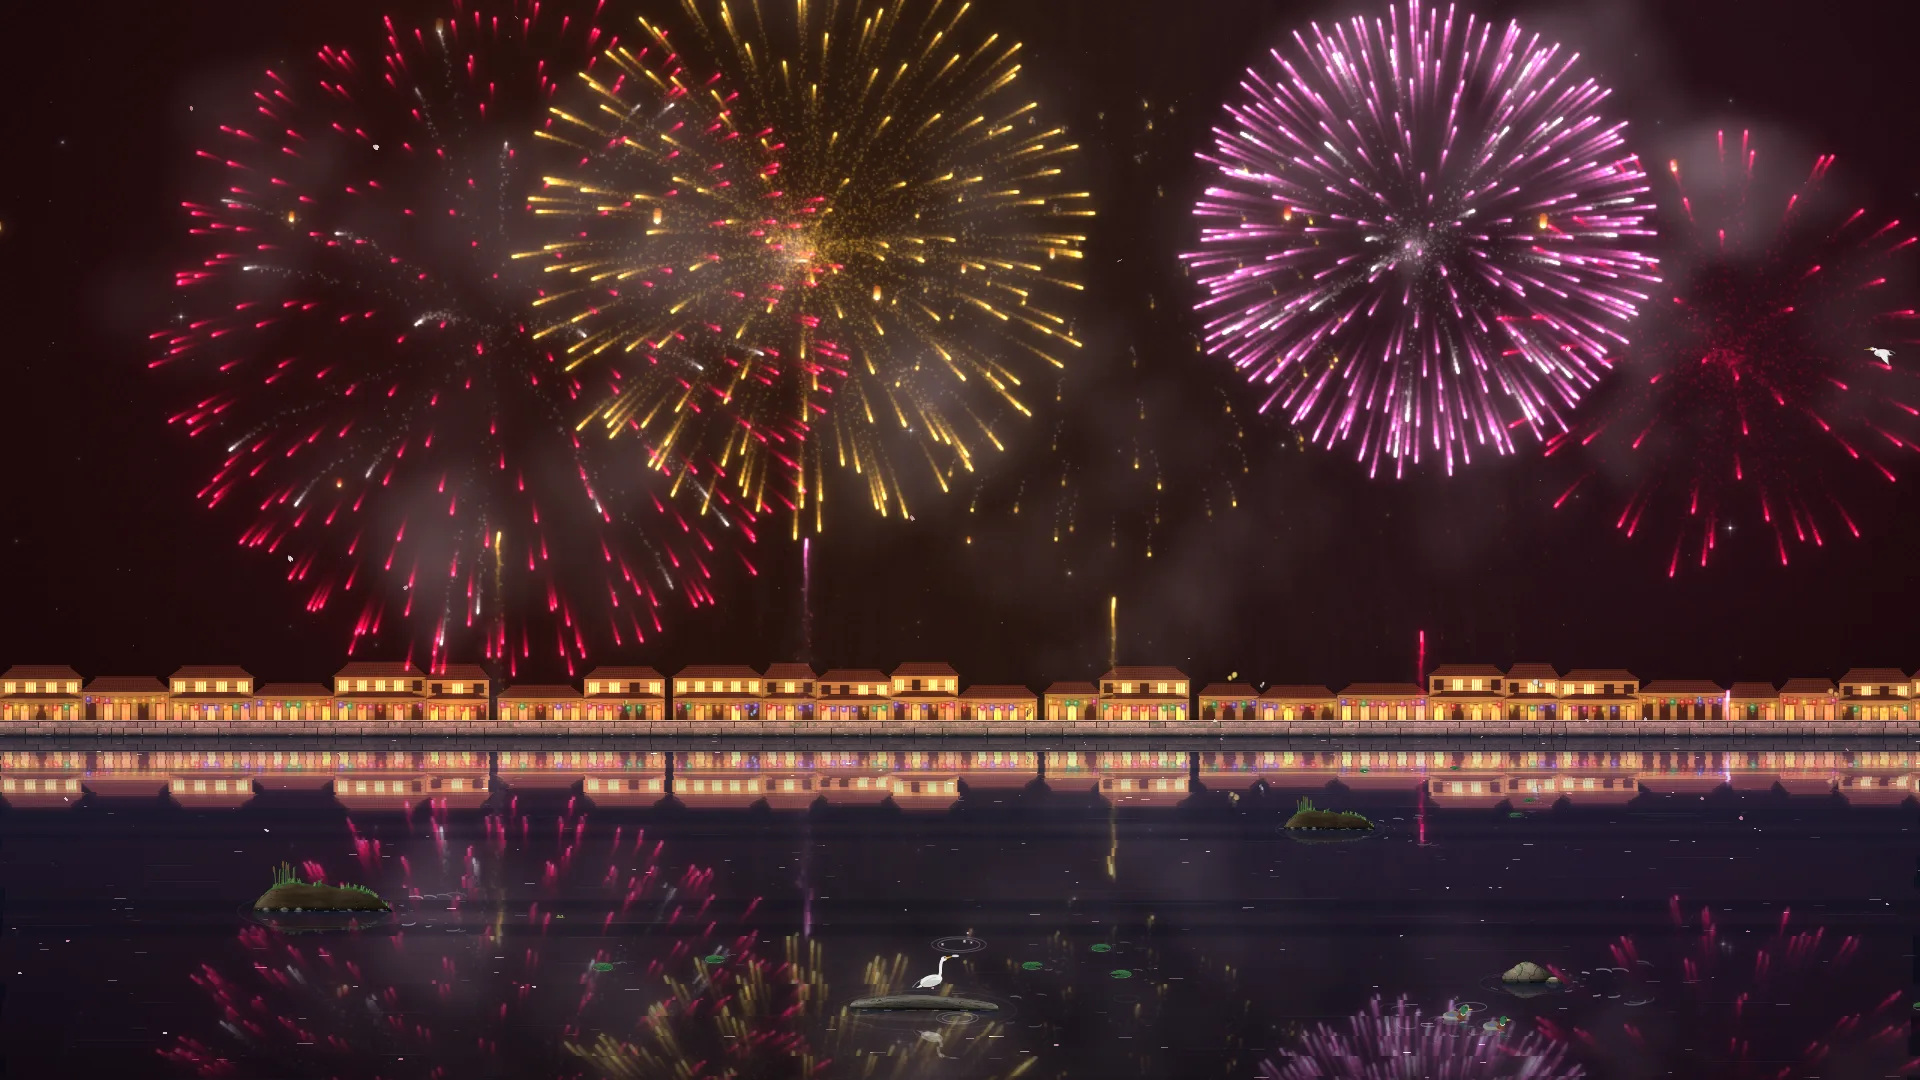
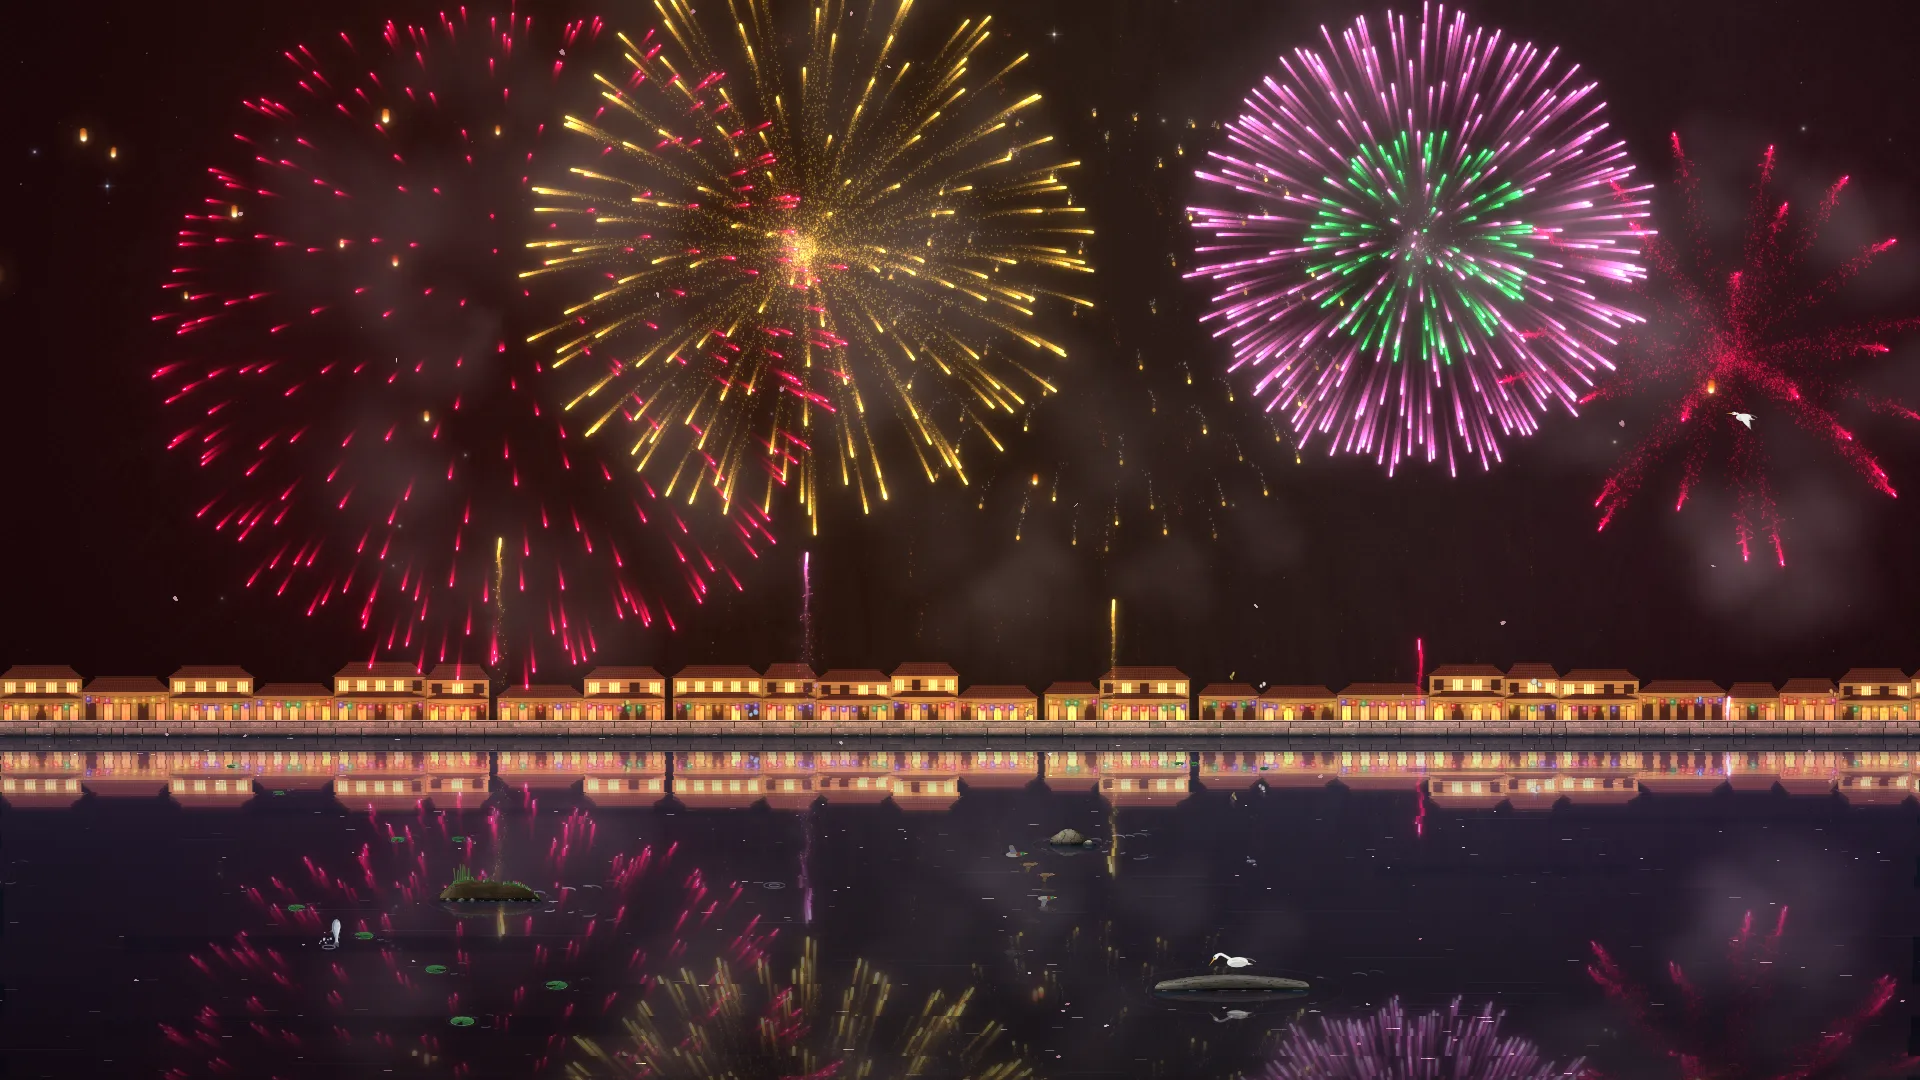
Mặt nước không còn vạch tối kẻ ngang như vạch quét màn hình: khe tối của bóng phản chiếu thành từng đoạn ngắn (12-42% bề ngang) trôi theo dòng (hồ trôi rất chậm), mờ dần rồi hiện lại theo nhịp riêng, càng xa bờ càng nhiều, nên bóng pháo, bóng trăng vỡ ra như mặt nước gợn. Đo A/B trong cùng trang (th

diff --git a/src/assets/js/player/scenery/water.js b/src/assets/js/player/scenery/water.js
@@ -207,10 +207,34 @@ export const Water = {
                 const speed = 0.0008 + hash(i + 50) * 0.0016;
                 const amp = frozen ? 0 : (river ? 0.6 + d * 9 : 0.2 + d * 3) * k;
                 const dx = Math.round((Math.sin(time * speed + phase) + 0.5 * Math.sin(time * speed * 1.7 + phase * 2)) * amp);
-                // Khe tối ngang, càng xa bờ càng nhiều: bóng trăng, bóng pháo vỡ thành từng lát. Mặt băng: bóng phẳng, mờ
-                const gap = !frozen && hash(i + 99) < 0.1 + d * 0.3 ? 0.6 : 1;
-                ctx.globalAlpha = frozen ? 0.4 * (1 - d * 0.5) : (river ? 0.6 * (1 - d * 0.6) : 0.78 * (1 - d * 0.5)) * gap;
-                ctx.drawImage(mirror, 0, y, W, band, dx, from + y, W, band);
+                const alpha = frozen ? 0.4 * (1 - d * 0.5) : (river ? 0.6 * (1 - d * 0.6) : 0.78 * (1 - d * 0.5));
+                // Khe tối, càng xa bờ càng nhiều: bóng trăng, bóng pháo vỡ thành từng lát như mặt nước gợn. Mỗi khe chỉ là
+                // một đoạn ngắn, trôi theo dòng (hồ trôi rất chậm) và mờ dần rồi hiện lại theo nhịp riêng: không thành vạch
+                // tối kẻ suốt bề ngang đứng yên như vạch quét màn hình. Mặt băng: bóng phẳng, không khe
+                let dark = 0;
+                let gx = 0;
+                let gw = 0;
+                if (!frozen && hash(i + 99) < 0.16 + d * 0.4) {
+                    dark = 0.4 * (0.5 - 0.5 * Math.cos((time / (3000 + hash(i + 31) * 4000) + hash(i + 17)) * Math.PI * 2));
+                    const gwCss = cssW * (0.12 + hash(i + 13) * 0.3);
+                    const loop = cssW + gwCss;
+                    const x = (hash(i + 7) * loop + this.flow * (river ? 0.5 + d * 0.8 : 0.6 + hash(i + 23))) % loop - gwCss;
+                    gx = Math.round(x * k);
+                    gw = Math.round(gwCss * k);
+                }
+                ctx.globalAlpha = alpha;
+                if (dark < 0.02) {
+                    ctx.drawImage(mirror, 0, y, W, band, dx, from + y, W, band);
+                } else {
+                    // Phần trước khe, khe (tối hơn), phần sau khe
+                    const a = Math.max(0, gx);
+                    const b = Math.min(W, gx + gw);
+                    if (a > 0) ctx.drawImage(mirror, 0, y, a, band, dx, from + y, a, band);
+                    ctx.globalAlpha = alpha * (1 - dark);
+                    if (b > a) ctx.drawImage(mirror, a, y, b - a, band, dx + a, from + y, b - a, band);
+                    ctx.globalAlpha = alpha;
+                    if (b < W) ctx.drawImage(mirror, b, y, W - b, band, dx + b, from + y, W - b, band);
+                }
                 y += band;
             }
         };
